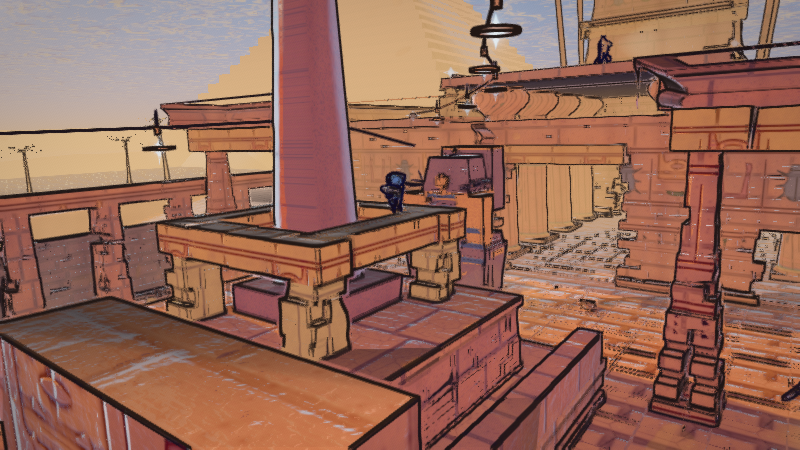
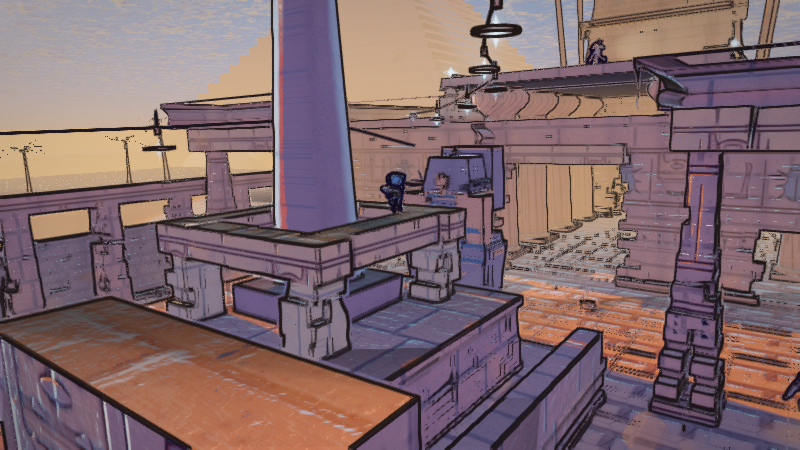
Widen the lit/shadow hue separation further
First pass fixed the inversion the critic found: hero shadow R/G 1.625 -> 1.299
against lit 1.370, courtyard 1.532 -> 1.279 against lit 1.468. Shadow now reads
cooler than sunlight in both, where it had been warmer in both.

Hero's separation is still thin at 1.370 vs 1.299, so pushing shadowWash 0.30 ->
0.44 - it is the only shadow term not multiplied by albedo, so it moves hue without
touching how much albedo detail survives in shadow.

Deliberately not chasing the critic's 0.66 as a literal target for the rendered
surface. 0.66 is the palette's shadow *hue*; warm sandstone standing in blue shade
does not become blue, and §7.3 separately requires that albedo detail stay readable
inside shadow, which a genuinely blue-dominant surface would fight. The defect was
shadow being warmer than sunlight, and that is what I am fixing.

Verifying this one by eye as well as by number - the known failure at this end of
the range is mauve, and R/G cannot distinguish 'correctly cool' from 'gone purple'.

Claude-Session: https://claude.ai/code/session_01PXtatFVa9WWnKz5zHerfeC

diff --git a/src/render/ToonMaterial.js b/src/render/ToonMaterial.js
@@ -48,7 +48,7 @@ const TUNE = {
   // albedo, so it is the only lever that can pull the final hue toward the palette's shadow
   // colour rather than toward the surface's own warmth. Raised now that TEXTURES floored the
   // near-black tail that used to turn this wash into visible violet blotching.
-  shadowWash: 0.30,
+  shadowWash: 0.44,
   // Was +0.34, a saturation BOOST. On warm sandstone that raises R and lowers G, which is
   // mechanically why shadow measured *redder* than sunlight (R/G 1.63 shadowed vs 1.49 lit)
   // when §2.2 wants shadow blue-dominant. A surface lit only by narrow-band skylight should
